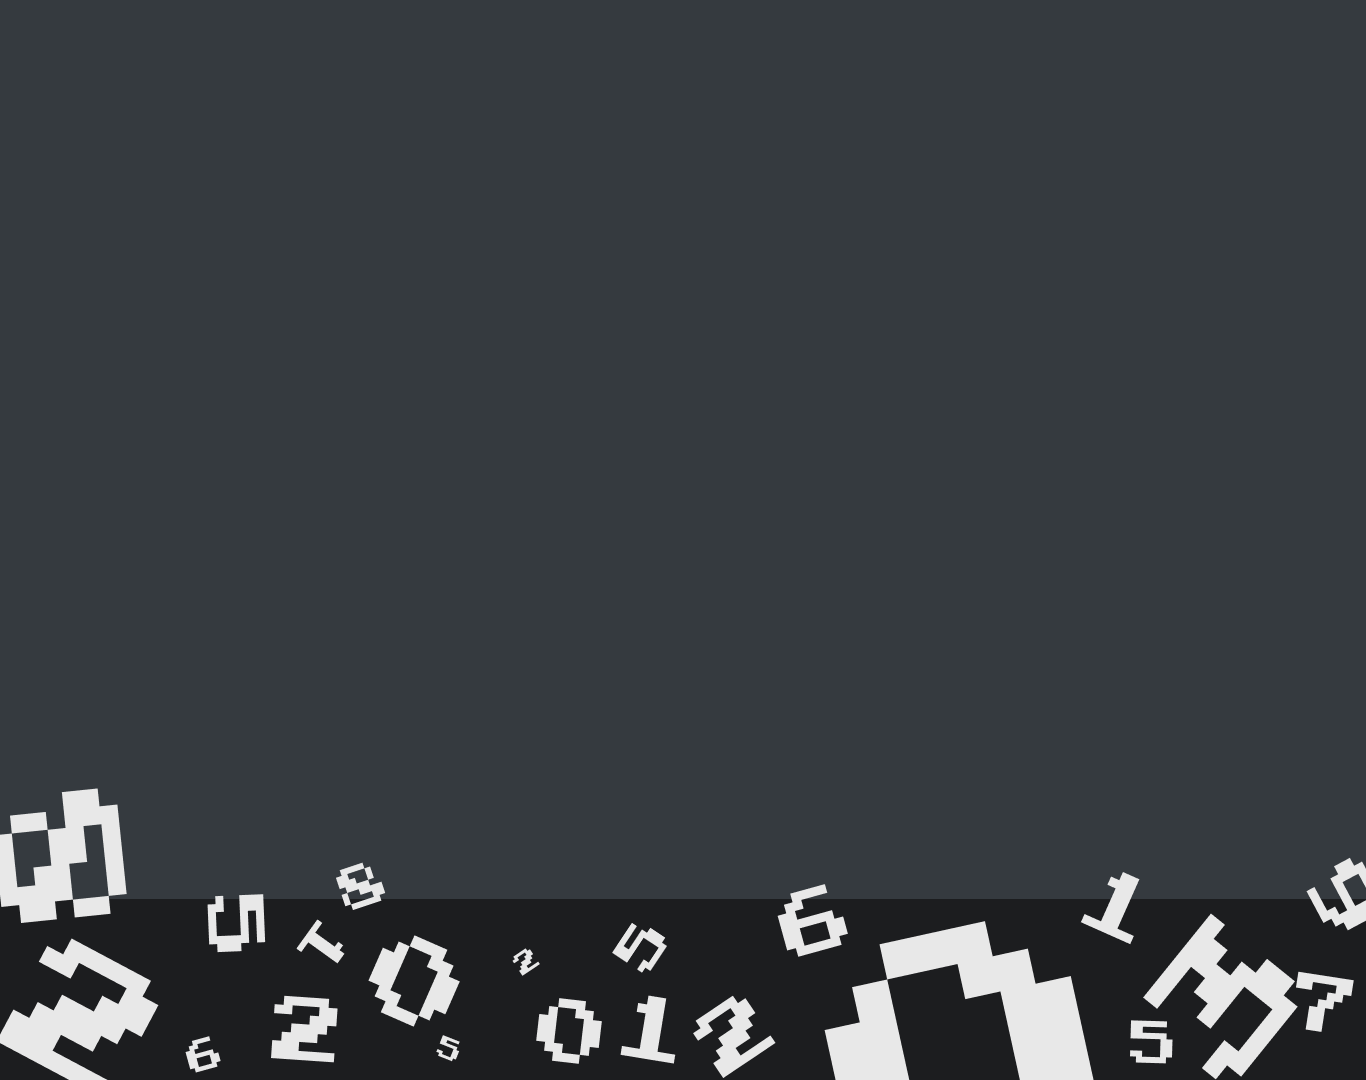
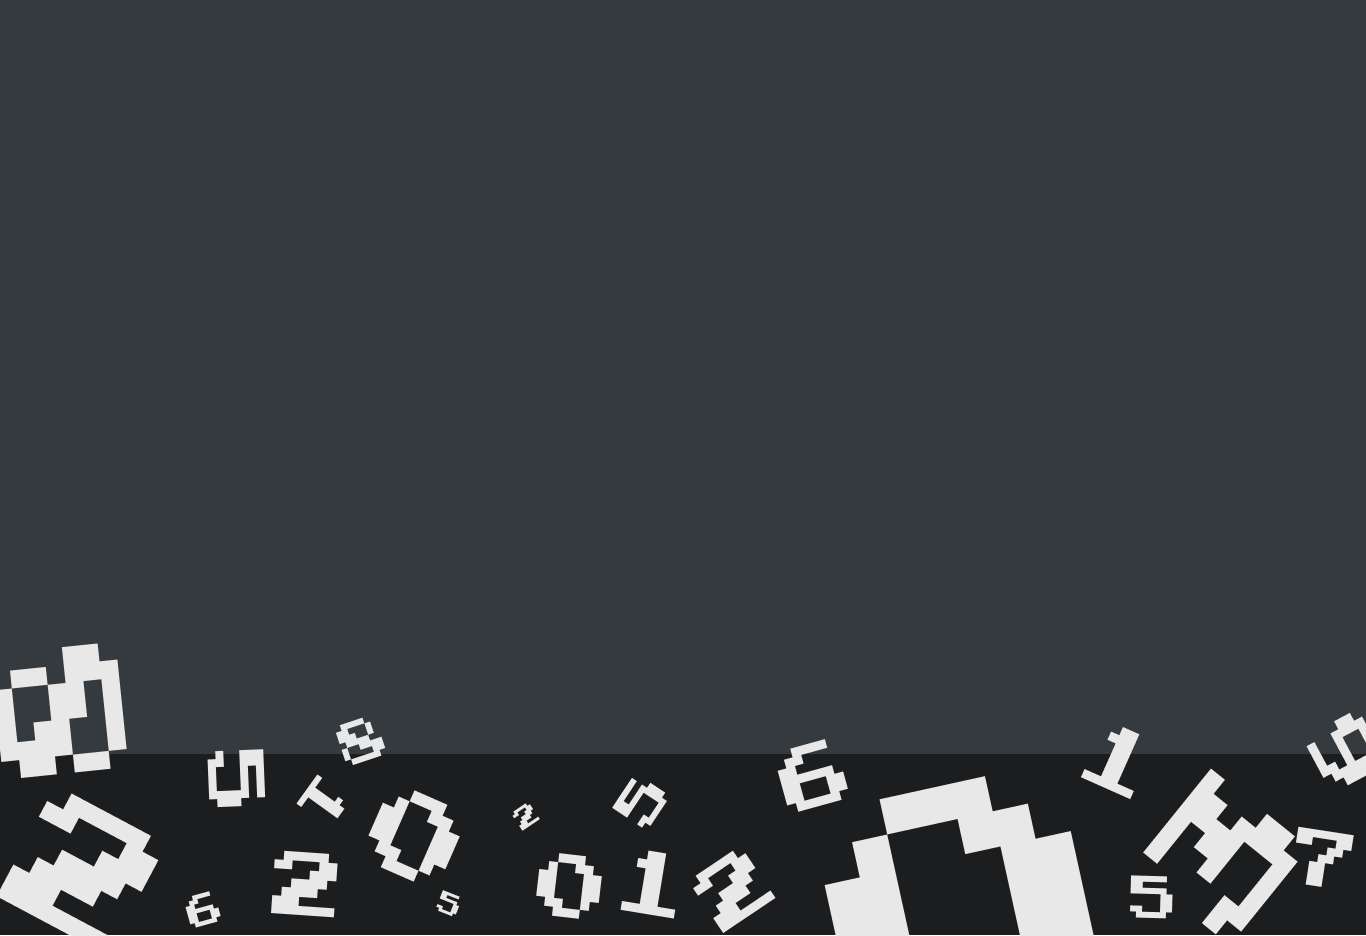
Create the main-container component

Changed region(s): [[0.0, 0.6816, 1.0, 1.0], [0.6764, 0.9915, 0.7379, 1.0], [0.369, 0.8675, 0.3997, 0.8985]]

diff --git a/calculadora/styles/components/main-container.css b/calculadora/styles/components/main-container.css
@@ -1,0 +1,12 @@
+.main-container{
+    min-height: 937px;
+    display: flex;
+    flex-direction: column;
+    align-items: center;
+
+    background-image: url('../../images/background.png');
+    background-repeat: no-repeat;
+    background-size: cover;
+
+    font-family: 'Press Start 2P', cursive;
+}
